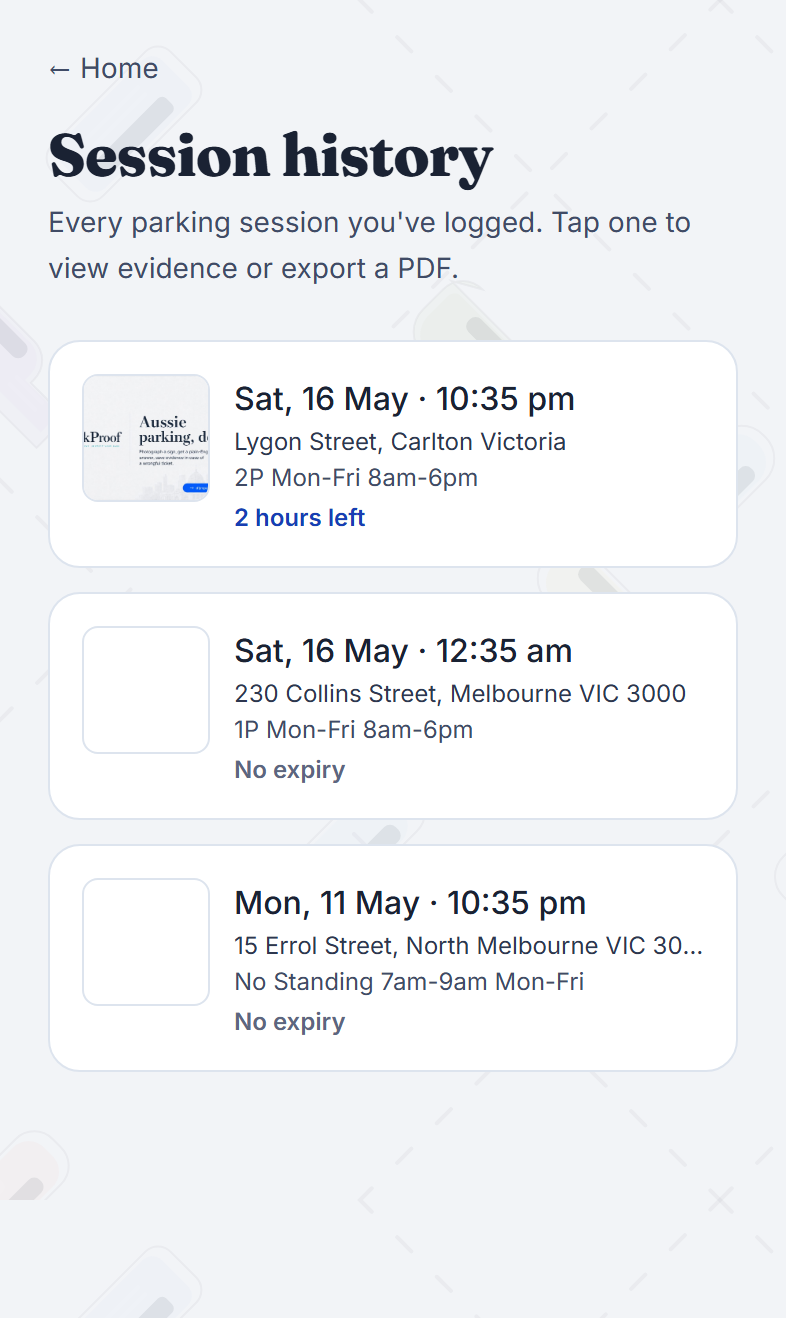
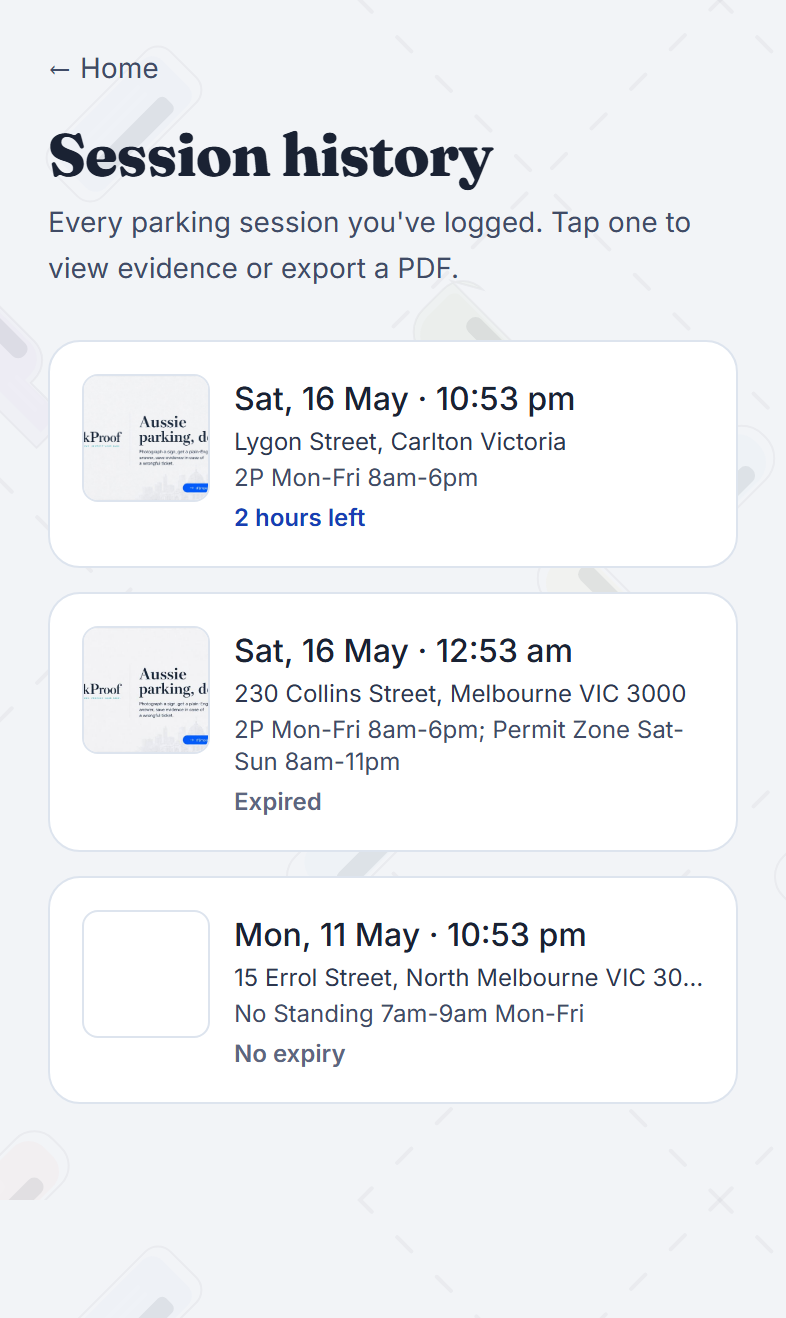
fix(pdf): surface export errors, guard malformed signatures, fix expired-session copy
Three defensive fixes for the silent-fail "PDF Exports don't work for past
sessions" bug, plus two new screenshots for the demo grid.

PDF generation:
- buildGuidance() was saying "Free to park. Move by [past time]" for
  expired sessions — confusing and contradictory on the evidence record.
  Now reads "Session expired at [time]" when expires_at < now.
- drawSignatureAppendix() was assuming the signature bundle was complete.
  An older session saved during the KMS deploy-bug window had a partial
  bundle with undefined required fields, and splitTextToSize(undefined)
  crashed the whole PDF. Guard with isValidSignature() — incomplete
  bundles log + skip the appendix; the page-1 evidence record still ships.
- Wrap the whole drawSignatureAppendix call in try/catch as belt+braces.

UI:
- SessionDetail "Export as PDF" was async + dynamic-import then call. iOS
  Safari sometimes blocks the auto-download because the await broke the
  user-gesture chain. Pre-import the pdf module on mount via useEffect
  and call synchronously from the click handler.
- Both Export PDF buttons (SessionDetail + AppealFlow) now surface any
  thrown error to the UI instead of swallowing it. Saves "tap → nothing
  happens" frustration and turns future silent-fails into a console diff
  + visible message the user can screenshot.

Screenshots:
- Add 07-session-detail.png (signed past session, Export PDF as the
  prominent CTA, ticket-appeal entry visible).
[…]

diff --git a/src/components/SessionDetail.tsx b/src/components/SessionDetail.tsx
@@ -1,3 +1,4 @@
+import { useEffect, useRef, useState } from 'react'
 import type { ParkingSession } from '../types'
 import { deleteSession } from '../lib/storage'
 import Icon from './Icon'
@@ -29,6 +30,42 @@ export default function SessionDetail({ session, onBack, onDeleted, onDraftAppea
   const isExpired = expiresMs !== null && expiresMs < now
   const countdown =
     expiresMs !== null && !isExpired ? formatCountdown(expiresMs - now) : null
+
+  // Pre-import the PDF chunk so the click → save chain stays inside the
+  // user-gesture window (iOS Safari otherwise sometimes blocks the download
+  // because the await import() breaks the gesture). We hold the module in a
+  // ref and call it synchronously from the click handler.
+  const pdfModuleRef = useRef<typeof import('../lib/pdf') | null>(null)
+  const [pdfError, setPdfError] = useState<string | null>(null)
+  const [pdfBusy, setPdfBusy] = useState(false)
+
+  useEffect(() => {
+    let cancelled = false
+    void import('../lib/pdf').then((mod) => {
+      if (!cancelled) pdfModuleRef.current = mod
+    })
+    return () => {
+      cancelled = true
+    }
+  }, [])
+
+  const handleExportPdf = async () => {
+    setPdfError(null)
+    setPdfBusy(true)
+    try {
+      // If the chunk is already in the ref, run synchronously. Otherwise
+      // fall back to a fresh dynamic import — slower on first click on a
+      // cold cache, but at least it works.
+      const mod = pdfModuleRef.current ?? (await import('../lib/pdf'))
+      mod.downloadPdf(session)
+    } catch (err) {
+      const message = err instanceof Error ? err.message : String(err)
+      console.error('[pdf] export failed:', err)
+      setPdfError(message)
+    } finally {
+      setPdfBusy(false)
+    }
+  }
 
   const handleDelete = () => {
     if (!window.confirm('Delete this parking session? This cannot be undone.')) return
@@ -167,14 +204,26 @@ export default function SessionDetail({ session, onBack, onDeleted, onDraftAppea
 
       <div className="mt-6 flex flex-col gap-2">
         <button
-          onClick={async () => {
-            const { downloadPdf } = await import('../lib/pdf')
-            downloadPdf(session)
-          }}
-          className="bg-brand-500 hover:bg-brand-600 active:bg-brand-700 text-white font-semibold py-4 rounded-2xl shadow-lg shadow-brand-500/25 transition-colors"
+          onClick={handleExportPdf}
+          disabled={pdfBusy}
+          className="bg-brand-500 hover:bg-brand-600 active:bg-brand-700 disabled:bg-brand-300 text-white font-semibold py-4 rounded-2xl shadow-lg shadow-brand-500/25 transition-colors"
         >
-          Export as PDF
+          {pdfBusy ? 'Building PDF…' : 'Export as PDF'}
         </button>
+        {pdfError && (
+          <div className="bg-accent-50 border-2 border-accent-400 rounded-xl p-3 text-sm">
+            <p className="font-display font-bold text-ink-900 mb-1">
+              Couldn't build the PDF
+            </p>
+            <p className="text-xs text-ink-700 leading-relaxed break-words">
+              {pdfError}
+            </p>
+            <p className="text-[10px] text-ink-500 mt-2">
+              The error has been logged to the browser console. If this keeps
+              happening, take a screenshot of the console output and share it.
+            </p>
+          </div>
+        )}
         <button
           onClick={onDraftAppeal}
           className="bg-white border border-ink-700 hover:bg-ink-900 hover:text-white text-ink-900 font-semibold py-3 rounded-2xl transition-colors"

diff --git a/src/lib/pdf.ts b/src/lib/pdf.ts
@@ -77,10 +77,17 @@ function splitRules(rules: string): string {
 }
 
 function buildGuidance(session: ParkingSession, timezone: string): string {
-  if (session.expires_at) {
-    return `Free to park. Move by ${fmtLocalShort(session.expires_at, timezone)}.`
+  if (!session.expires_at) {
+    return 'Free to park. No expiry shown on the sign.'
   }
-  return 'Free to park. No expiry shown on the sign.'
+  const expiresMs = new Date(session.expires_at).getTime()
+  // If the PDF is exported AFTER expiry (typical for evidence-after-the-fact),
+  // the "Move by …" copy reads as a contradiction. State the past tense honestly
+  // — the evidence record is about what the session was at the time of parking.
+  if (Number.isFinite(expiresMs) && expiresMs < Date.now()) {
+    return `Session expired at ${fmtLocalShort(session.expires_at, timezone)}.`
+  }
+  return `Free to park. Move by ${fmtLocalShort(session.expires_at, timezone)}.`
 }
 
 // ─── PDF layout helpers ─────────────────────────────────────────────────────
@@ -311,12 +318,46 @@ export function downloadPdf(session: ParkingSession): void {
   const wrapped = doc.splitTextToSize(statement, pageWidth - 2 * MARGIN)
   doc.text(wrapped, MARGIN, y)
 
-  // Signature appendix (only if the session was signed)
-  if (session.signature) {
-    drawSignatureAppendix(doc, session.signature)
+  // Signature appendix (only if the session was signed AND the bundle is
+  // structurally complete). Older sessions saved during the deploy-bug
+  // window briefly had an empty-object signature; we don't want a partial
+  // bundle to crash the whole PDF. If anything is missing or the appendix
+  // itself fails, log + continue without it — the main evidence record
+  // (page 1) is the user's actual deliverable.
+  if (isValidSignature(session.signature)) {
+    try {
+      drawSignatureAppendix(doc, session.signature)
+    } catch (err) {
+      console.warn('[pdf] signature appendix failed, omitting:', err)
+    }
+  } else if (session.signature) {
+    console.warn(
+      '[pdf] signature bundle is incomplete, omitting appendix. Saved fields:',
+      Object.keys(session.signature),
+    )
   }
 
   doc.save(`parkproof-${session.id.slice(0, 8)}.pdf`)
+}
+
+/**
+ * A signature bundle is "valid enough to render" if every field the appendix
+ * actually reads is present and a string. We don't verify cryptographically
+ * here — the PDF surfaces the raw bytes for an external `openssl dgst` check.
+ */
+function isValidSignature(
+  sig: ParkingSession['signature'],
+): sig is NonNullable<ParkingSession['signature']> {
+  if (!sig || typeof sig !== 'object') return false
+  const required = [
+    'schema',
+    'signed_at',
+    'algorithm',
+    'key_alias',
+    'canonical_payload',
+    'signature_base64',
+  ] as const
+  return required.every((k) => typeof sig[k] === 'string' && sig[k].length > 0)
 }
 
 function drawSignatureAppendix(doc: jsPDF, sig: NonNullable<ParkingSession['signature']>): void {
@@ -546,7 +587,7 @@ export function downloadAppealPdf(params: {
     }
     caption.push(fmtLocal(session.arrived_at, timezone))
 
-    y = addImageWithOverlayCaption(doc, session.car_photo, y, caption, 260) + 18
+    addImageWithOverlayCaption(doc, session.car_photo, y, caption, 260)
   }
 
   doc.save(`parkproof-appeal-${session.id.slice(0, 8)}.pdf`)

diff --git a/src/components/AppealFlow.tsx b/src/components/AppealFlow.tsx
@@ -53,15 +53,27 @@ export default function AppealFlow({ session, onBack }: Props) {
     }
   }
 
+  const [pdfError, setPdfError] = useState<string | null>(null)
+  const [pdfBusy, setPdfBusy] = useState(false)
   const handleDownloadPdf = async () => {
     if (stage.name !== 'review') return
-    const { downloadAppealPdf } = await import('../lib/pdf')
-    downloadAppealPdf({
-      session,
-      draft: stage.draft,
-      editedLetter,
-      ticketPhoto: stage.ticketPhoto,
-    })
+    setPdfError(null)
+    setPdfBusy(true)
+    try {
+      const { downloadAppealPdf } = await import('../lib/pdf')
+      downloadAppealPdf({
+        session,
+        draft: stage.draft,
+        editedLetter,
+        ticketPhoto: stage.ticketPhoto,
+      })
+    } catch (err) {
+      const message = err instanceof Error ? err.message : String(err)
+      console.error('[pdf] appeal export failed:', err)
+      setPdfError(message)
+    } finally {
+      setPdfBusy(false)
+    }
   }
 
   if (stage.name === 'drafting') {
@@ -168,11 +180,20 @@ export default function AppealFlow({ session, onBack }: Props) {
           </button>
           <button
             onClick={handleDownloadPdf}
-            className="bg-white border border-paper-300 hover:border-ink-600 text-ink-900 font-medium py-3 rounded-2xl transition-colors"
+            disabled={pdfBusy}
+            className="bg-white border border-paper-300 hover:border-ink-600 disabled:opacity-60 text-ink-900 font-medium py-3 rounded-2xl transition-colors"
           >
-            Download as PDF
+            {pdfBusy ? 'Building PDF…' : 'Download as PDF'}
           </button>
         </div>
+        {pdfError && (
+          <div className="mt-3 bg-accent-50 border-2 border-accent-400 rounded-xl p-3 text-sm">
+            <p className="font-display font-bold text-ink-900 mb-1">
+              Couldn't build the PDF
+            </p>
+            <p className="text-xs text-ink-700 leading-relaxed break-words">{pdfError}</p>
+          </div>
+        )}
 
         <p className="text-xs text-ink-500 mt-4 text-center leading-relaxed">
           The AI draft is a starting point. Read carefully, edit the letter to match your voice

diff --git a/README.md b/README.md
@@ -20,7 +20,11 @@ A mobile-first, installable PWA with end-to-end AI: sign translation, evidence c
 |---|---|---|
 | ![logger](docs/screenshots/04-logger.png) | ![remind](docs/screenshots/05-remind.png) | ![history](docs/screenshots/06-history.png) |
 
-> _Drop your own screenshots into `docs/screenshots/` to populate the grid._
+| 7. Session detail (PDF export entry) | 8. AI-drafted appeal letter |
+|---|---|
+| ![detail](docs/screenshots/07-session-detail.png) | ![appeal](docs/screenshots/08-appeal.png) |
+
+> _Screenshots are auto-generated by `npm run screenshots` — see [`scripts/screenshots.mjs`](scripts/screenshots.mjs)._
 
 ---
 
